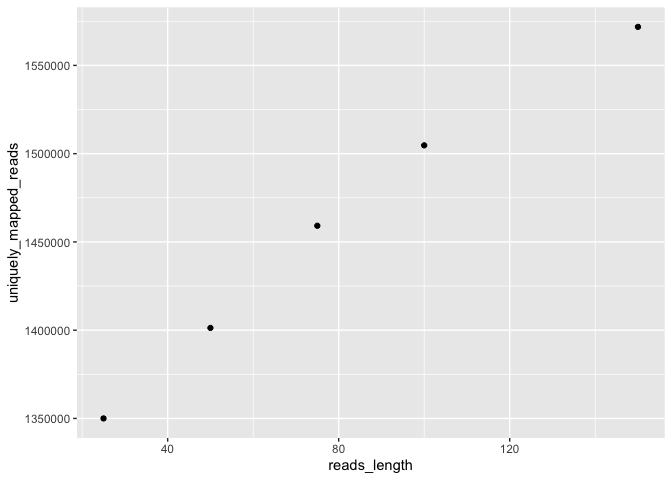
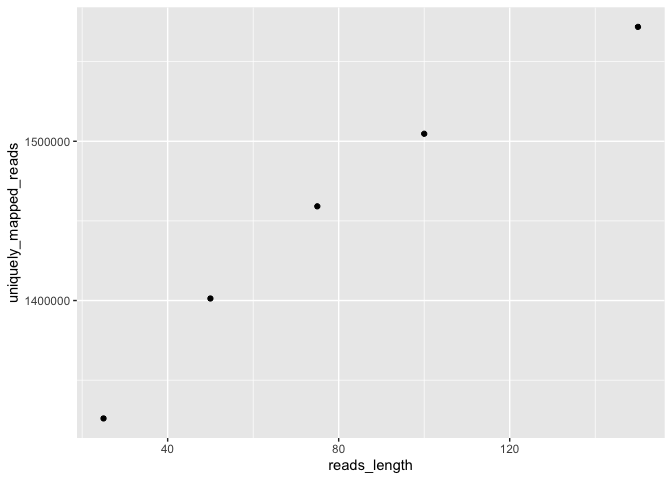
add stuff im so tired wah

diff --git a/Assignment_3.md b/Assignment_3.md
@@ -105,14 +105,14 @@ assignment located in **/projects/bmeg/A2** in the course server.
 ``` bash
 #?# Use trimmomatic SE to crop the file down to 25 bp in length, type the command you use below - 1 pt
 ## Note: Remember to gzip all your files! Look into the trimmomatic documentation for how to specify to compress your output
-trimmomatic SE -phred33 /projects/bmeg/A2/H3K27me3_iPSC_SRA60_subset_1.fastq.gz /home/npatadia_bmeg22/assignment3_bmeg591e/output.fq.gz HEADCROP:25
+trimmomatic SE /projects/bmeg/A2/H3K27me3_iPSC_SRA60_subset_1.fastq.gz /home/npatadia_bmeg22/assignment3_bmeg591e/H3K27me3_iPSC_SRA60_subset_1_LEN_25_v2.fq.gz CROP:25
 
 #?# Use bowtie2 to map the _25bp_ read file you just created to the reference genome, type the command you use below: - 0.5 pt
-bowtie2 -x /projects/bmeg/indexes/hg38/hg38_bowtie2_index -1 /home/npatadia_bmeg22/assignment3_bmeg591e/output.fq.gz -S /home/npatadia_bmeg22/assignment3_bmeg591e/hg38_alignment_bowtie2.sam
+bowtie2 -x /projects/bmeg/indexes/hg38/hg38_bowtie2_index -U /home/npatadia_bmeg22/assignment3_bmeg591e/H3K27me3_iPSC_SRA60_subset_1_LEN_25.fq.gz -S /home/npatadia_bmeg22/assignment3_bmeg591e/H3K27me3_iPSC_SRA60_subset_1_LEN_25_aligned.sam
 
 
 #?# Use sambamba view to get the number of uniquely mapped reads of the alignment output you got above,type the command you use below: - 0.5 pt
-sambamba view -h -F "[XS] == null and not unmapped and not duplicate" hg38_alignment_bowtie2.bam -o hg38_alignment_bowtie2_sorted_filtered.bam
+sambamba view -h -S -F "[XS] == null and not unmapped and not duplicate" H3K27me3_iPSC_SRA60_subset_1_LEN_25_aligned.sam -o H3K27me3_iPSC_SRA60_subset_1_LEN_25_mapped.sam
 
 ## NOTE: Remember to use the following flag:
 ## -F "[XS] == null and not unmapped and not duplicate"
@@ -135,10 +135,12 @@ mapped reads when reads of this length have been mapped to the genome.
 ### Create a mini pipeline that uses sambamba view to get the number of uniquely mapped reads for the files above, plus the 25bp length file you created for the previous question.
 #?# Type the code of your mini pipeline below: - 3 pt
 
-#!/bin/bash
+#!/bin/bash  
+103423944
 
 sample=$1
 file=$2
+readlen=$3
 logDir=/home/npatadia_bmeg22/assignment3_bmeg591e/unq_map_reads
 mkdir -p $logDir # make the directory where log files will go, if it doesn't exist already
 
@@ -164,11 +166,11 @@ fi
 ./runTheseJobsSerially.sh ./getUniqueMappingReads.sh tasks.sh
 
 #?# Type the content of your taskfile below: - 0.5 pt 
-H3K27Me3_150    H3K27me3_iPSC_SRA60_subset_1_LEN_150_mapped.bam
-H3K27Me3_100    H3K27me3_iPSC_SRA60_subset_1_LEN_100_mapped.bam
-H3K27Me3_75 H3K27me3_iPSC_SRA60_subset_1_LEN_75_mapped.bam
-H3K27Me3_50 H3K27me3_iPSC_SRA60_subset_1_LEN_50_mapped.bam
-H3K27Me3_25 H3K27me3_iPSC_SRA60_subset_1_LEN_25_mapped.bam
+H3K27Me3_150    H3K27me3_iPSC_SRA60_subset_1_LEN_150_mapped.bam 150
+H3K27Me3_100    H3K27me3_iPSC_SRA60_subset_1_LEN_100_mapped.bam 100
+H3K27Me3_75 H3K27me3_iPSC_SRA60_subset_1_LEN_75_mapped.bam 75
+H3K27Me3_50 H3K27me3_iPSC_SRA60_subset_1_LEN_50_mapped.bam 50
+H3K27Me3_25 H3K27me3_iPSC_SRA60_subset_1_LEN_25_mapped.bam 25
 ```
 
 Now that you have the number of uniquely mapped reads for the different
@@ -190,7 +192,7 @@ library(ggplot2)
 
 
 length_mapped_reads.df <- data.frame(reads_length=c(150,100,75,50,25),
-                          uniquely_mapped_reads=c(1571825,1504718,1459162,1401280,1350000))## Here
+                          uniquely_mapped_reads=c(1571825,1504718,1459162,1401280, 1325968))## Here
 ## If you don't have it already, install the "ggplot2" package on your Rstudio 
 ## Go to packages on the bottom left part of the screen --> install --> type: ggplot2
 ## Accept to install the required dependencies :) 
@@ -225,18 +227,25 @@ between a paired-end run versus a single-end run.
 ## /projects/bmeg/indexes/hg38/hg38_bowtie2_index
 
 #?# Perform a paired-end (PE) analysis, type the command you used below: - 0.5 pt
-
+bowtie2 -x /projects/bmeg/indexes/hg38/hg38_bowtie2_index -1 /projects/bmeg/A3/H3K27me3_iPSC_SRA60_subset_1_LEN_25.fastq.gz -2 /projects/bmeg/A3/H3K27me3_iPSC_SRA60_subset_2_LEN_25.fastq.gz -S /home/npatadia_bmeg22/assignment3_bmeg591e/partb/paired_end_bowtie_alignment.sam
 
 #?# Do a single-end (SE) analysis of the subset_1 file , type the command you used below: - 0.5 pt
+bowtie2 -x /projects/bmeg/indexes/hg38/hg38_bowtie2_index -U /projects/bmeg/A3/H3K27me3_iPSC_SRA60_subset_1_LEN_25.fastq.gz -S /home/npatadia_bmeg22/assignment3_bmeg591e/partb/single_end_bowtie_alignment.sam
 
 #?# Convert the PE sam file to bam format, type the command you used below: - 0.5 pt
+samtools view -S -b -h paired_end_bowtie_alignment.sam > paired_end_bowtie_alignment.bam
 
 #?# Convert the SE sam file to bam format, type the command you used below: - 0.5 pt
+samtools view -S -b -h single_end_bowtie_alignment.sam > single_end_bowtie_alignment.bam
 
 ## Before moving on: remove the PE and SE sam alignment files!
-#?# Use sambamba view to get the number of uniquely mapped reads for the PE alignment, type the command you used below: - 0.5 pt 
+#?# Use sambamba view to get the number of uniquely mapped reads for the PE alignment, type the command you used below: - 0.5 pt
+sambamba view -h -F "[XS] == null and not unmapped and not duplicate"  paired_end_bowtie_alignment.bam -o paired_end_uniq_mapping_reads.bam | wc -l
+#2686693
 
 #?# Use sambamba view to get the number of uniquely mapped reads for the SE alignment, type the command you used below: - 0.5 pt 
+sambamba view -h -F "[XS] == null and not unmapped and not duplicate"  single_end_bowtie_alignment.bam -o single_end_uniq_mapping_reads.bam | wc -l
+#1325968
 ```
 
 Your supervisor liked so much the graphical representation of your data,
@@ -246,14 +255,40 @@ comparison.**On your local computer:**
 ``` r
 ## First, we create a dataframe with two columns, one (run_type) for the different run types and another (uniquely_mapped_reads for the number of uniquely mapped reads.
 #?# Substitute the SE and PE with their respective number of uniquely mapped reads that you got from sambamba view: - 1 pt
-#sequence_run.df <- data.frame(run_type=c("Single End", "Paired End"),
-    #                          uniquely_mapped_reads=c(SE,PE))
+sequence_run.df <- data.frame(run_type=c("Single End", "Paired End"),
+                             uniquely_mapped_reads=c(1325968,2686693))
 #?# Using ggplot, create a barplot that shows the different number of uniquely mapped reads between the two run types: - 2 pt
+
+ggplot(data = sequence_run.df, mapping = aes(x = run_type, y = uniquely_mapped_reads)) + 
+  geom_bar(stat="identity")
+```
+
+![](Assignment_3_files/figure-gfm/unnamed-chunk-6-1.png)<!-- -->
+
+``` r
 ## Use the run_type in the x-axis
 ## Use the uniquely_mapped_reads in the y-axis
 #?# Does the run type makes a difference? If there is, is it large? - 1 pt
+
+#Yes, the run type does make a difference. There are approximately double the 
+#number of uniquely mapped reads for paired versus single end analysis, which I 
+#would say is large. The approximate doubling of number of uniquely mapped reads 
+# is actually a result of the fact that both ends of a given fragment are being 
+#sequenced, so you end up having two reads per fragments in the sequence.
+
+
 #?# In your own words explain the difference between SE and PE read alignment. - 1 pt
+
+
+
+
 #?# Given that the 50 bp reads (from last graph) contain the same number of bases as two 25 bp reads (25 bp PE; 25+25=50), why are the number of uniquely mapping reads different between these two? Which has more? Why do you think this is? - 3 pts
+
+#between the two, there would be more uniquely mapping reads for the paired end 
+#reads versus the single end reads. This is because when you're working with paired
+#end reads, in addition to doubling the number of reads that you see, you also 
+#are able get data on repetitive regions of genome, as well as data on other
+#genomic rearrangements. 
 ```
 
 ## Assignment submission
